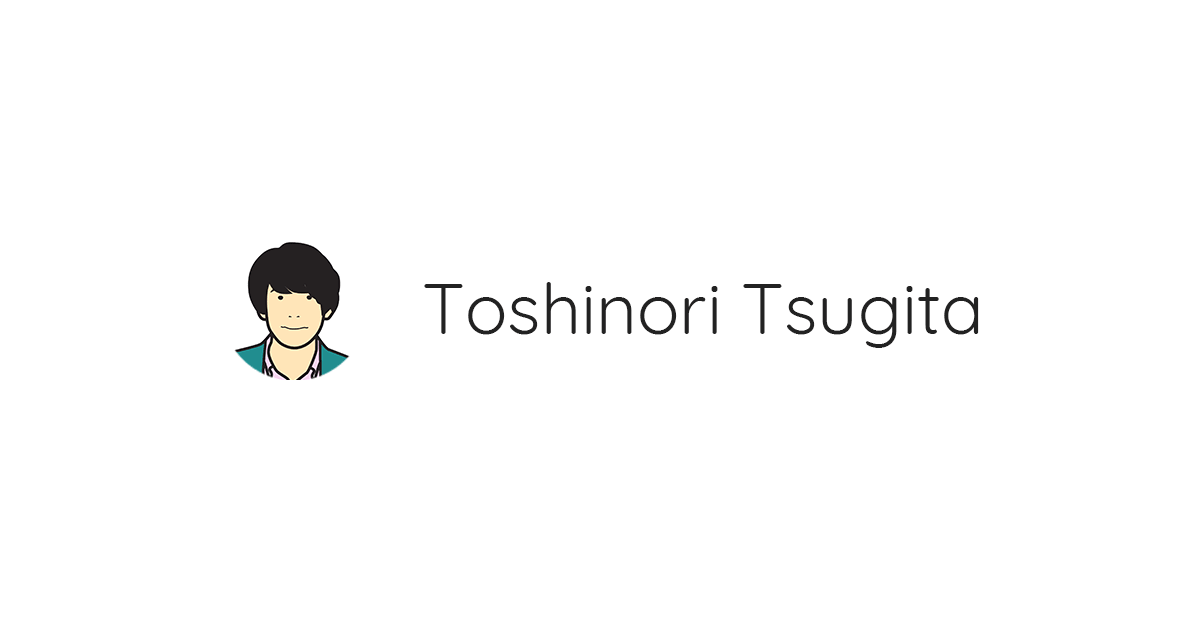
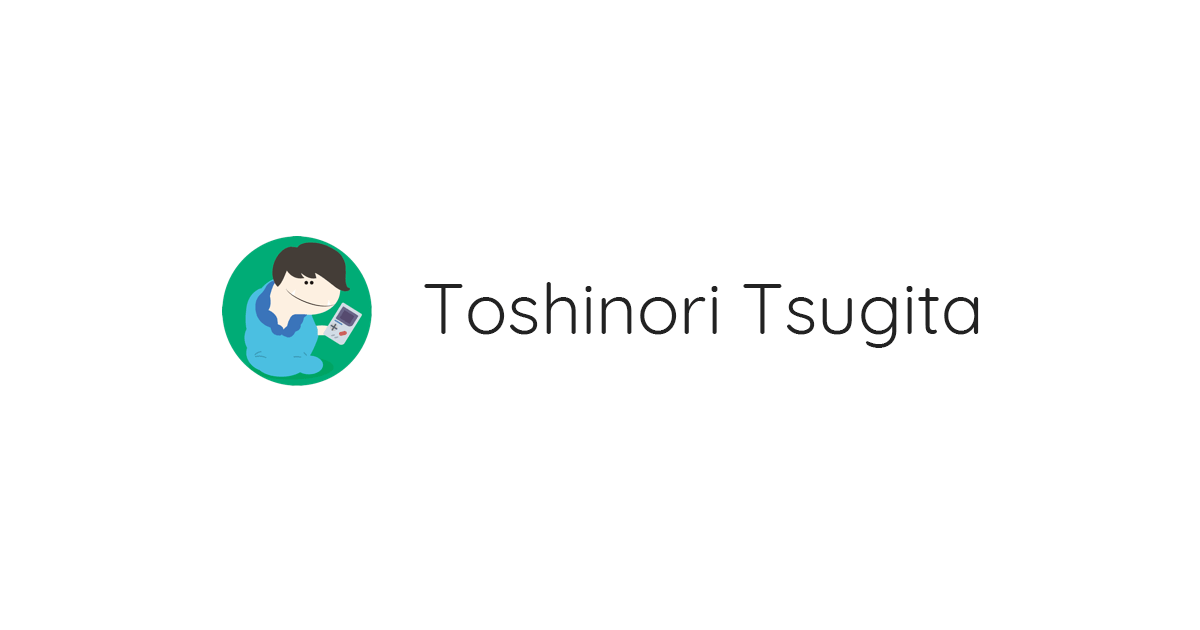
Update images

Changed region(s): [[0.185, 0.3619, 0.3083, 0.6333]]

diff --git a/src/app/nav/nav.component.html b/src/app/nav/nav.component.html
@@ -3,7 +3,7 @@
     <header>
       <div class="avatar-container">
         <a [routerLink]="['/']">
-          <img src="assets/me.jpg" class="avatar">
+          <img src="assets/me.png" class="avatar">
         </a>
       </div>
 
@@ -26,4 +26,3 @@
     </nav>
   </div>
 </div>
-
